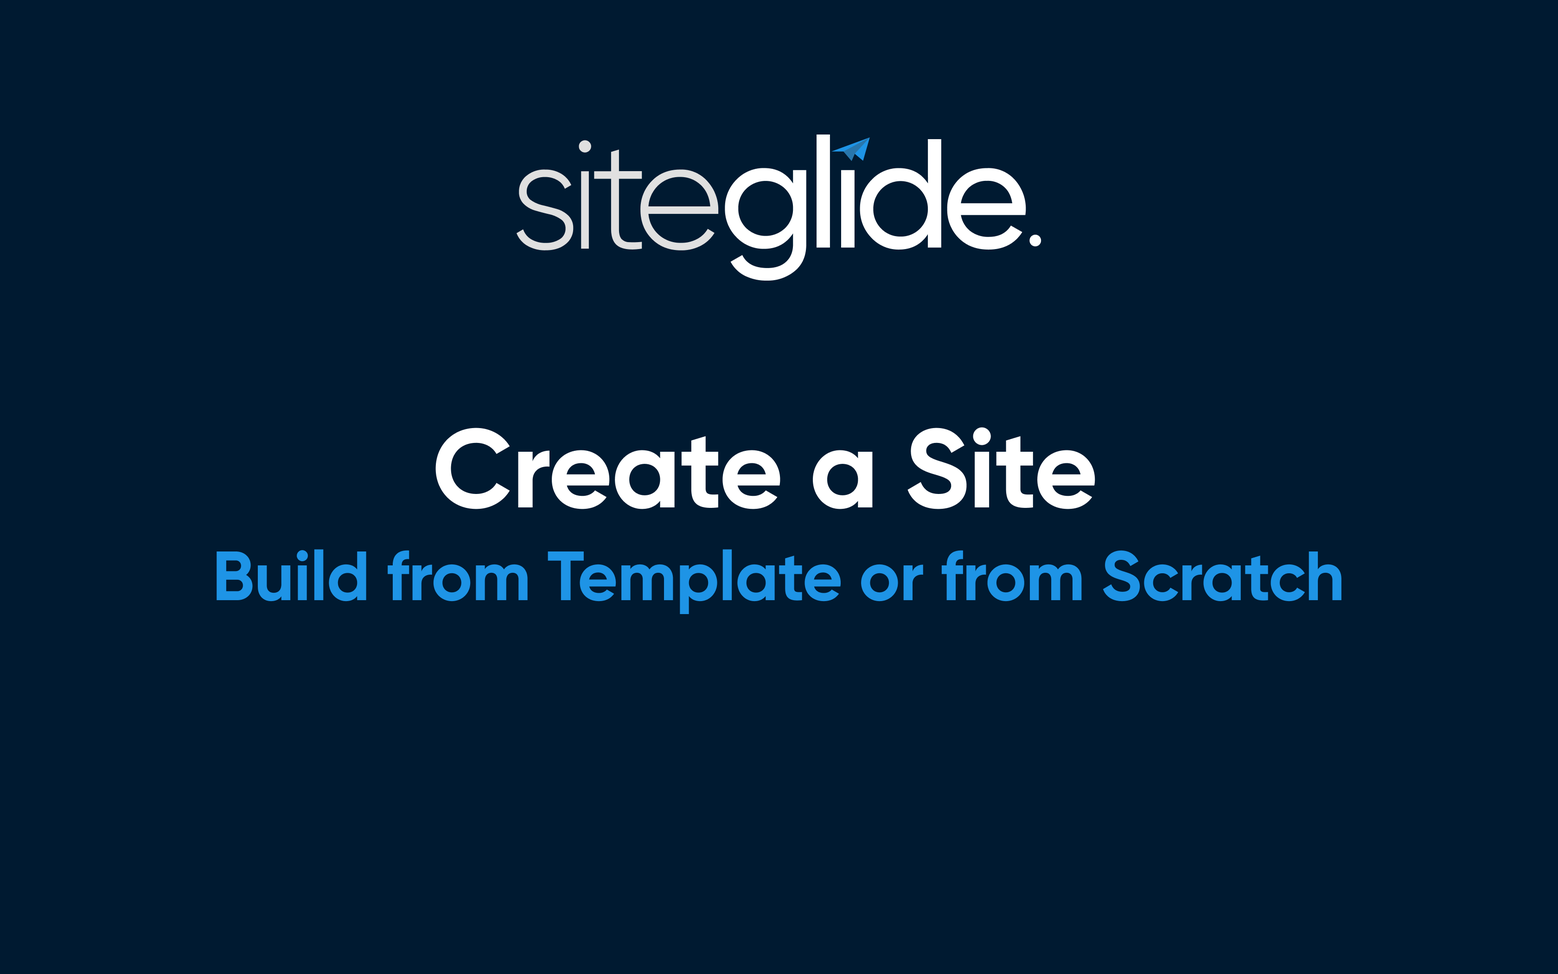
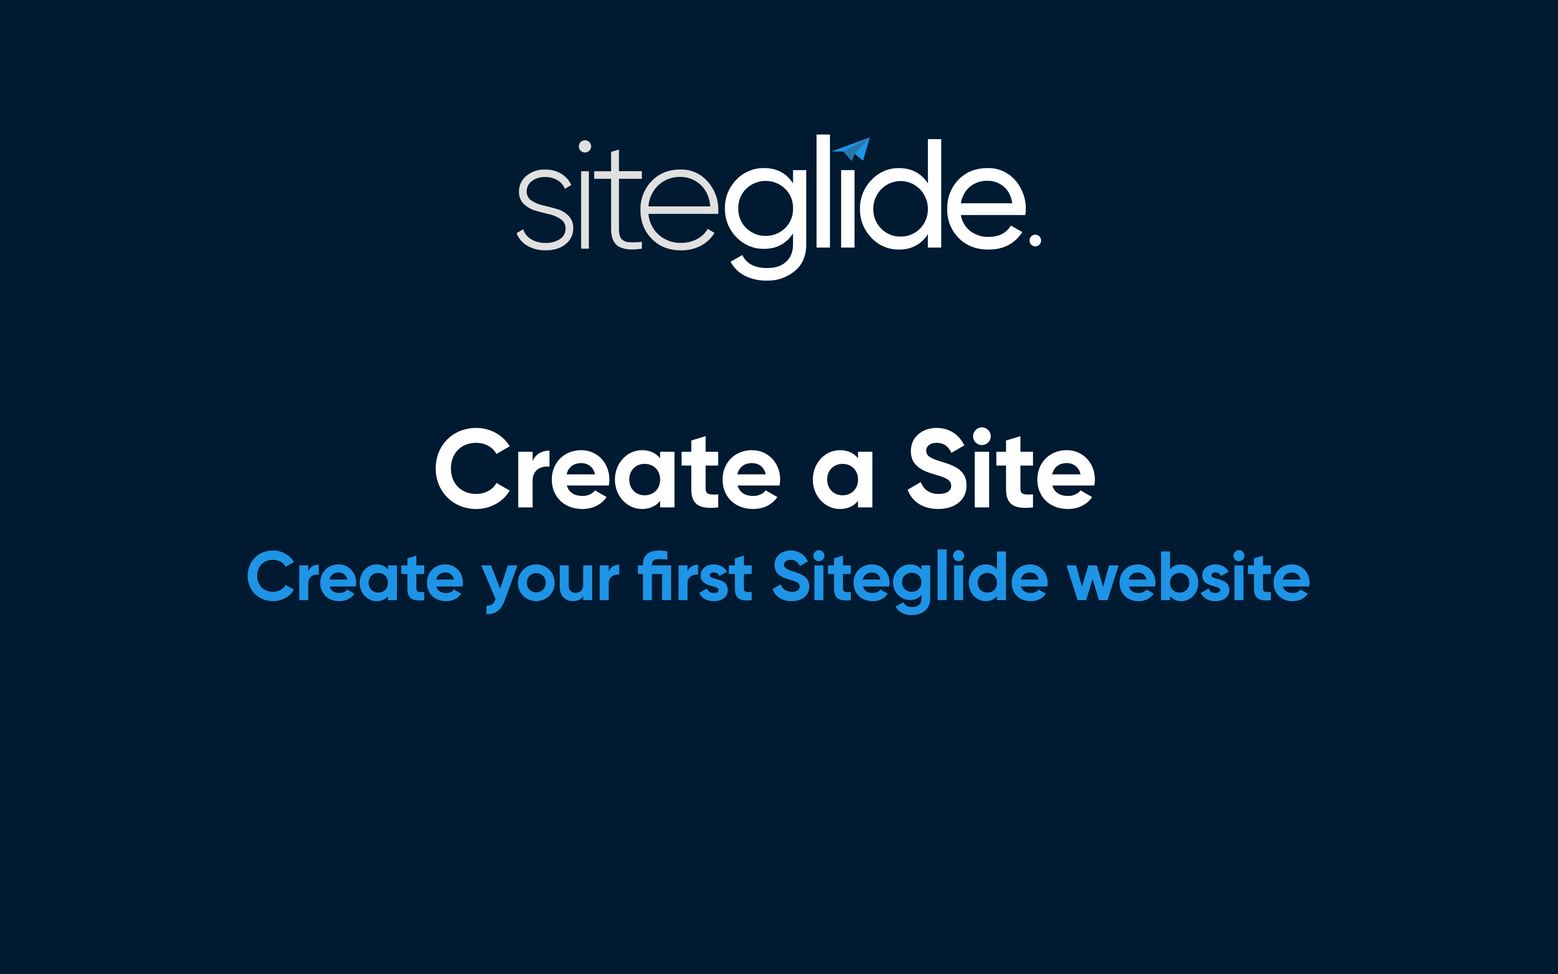
GITBOOK-213: No subject

Changed region(s): [[0.125, 0.5571, 0.875, 0.65]]

diff --git a/SUMMARY.md b/SUMMARY.md
@@ -14,8 +14,8 @@
 * [Account](portal2/account.md)
 * [Sites](portal/sites/README.md)
   * [🚀 Quickstart: Create a Site](portal/sites/steps-to-create-your-first-site.md)
-  * [📁 Domains](portal/sites/domains/README.md)
-    * [How to setup a multi domain start page](portal/sites/domains/how-to-setup-a-multi-domain-start-page.md)
+  * [🌍 Domains](portal/sites/domains/README.md)
+    * [📋 How to setup a multi domain start page](portal/sites/domains/how-to-setup-a-multi-domain-start-page.md)
 * [Users & User Roles](portal2/users-and-user-roles.md)
 * [Billing](portal2/billing.md)
 * [Tickets](portal2/tickets.md)
@@ -78,21 +78,22 @@
 
 ## SiteBuilder
 
-* [🚀 Quickstart: SiteBuilder](sitebuilder/setup-sitebuilder/README.md)
-  * [💡 About SiteBuilder](sitebuilder/setup-sitebuilder/about-sitebuilder.md)
+* [Build Sites Faster](sitebuilder/setup-sitebuilder/README.md)
+  * [🚀 Quickstart](sitebuilder/setup-sitebuilder/quickstart.md)
+  * [ℹ About](sitebuilder/setup-sitebuilder/about-sitebuilder.md)
   * [📋 Install SiteBuilder Module](sitebuilder/setup-sitebuilder/install-sitebuilder-module.md)
   * [📋 Create a Page Template](sitebuilder/setup-sitebuilder/create-a-page-template.md)
   * [📋 Set Up Tailwind CSS](sitebuilder/setup-sitebuilder/set-up-tailwind-css.md)
   * [📋 Editing Tailwind CSS](sitebuilder/setup-sitebuilder/editing-tailwind-css.md)
+  * [📋 Installing Layouts](sitebuilder/setup-sitebuilder/installing-layouts.md)
   * [ℹ Themes & Templates](sitebuilder/setup-sitebuilder/themes-and-templates.md)
+  * [ℹ Static Layouts](sitebuilder/setup-sitebuilder/static-layouts.md)
+  * [ℹ Dynamic Layouts in SiteBuilder](sitebuilder/setup-sitebuilder/dynamic-layouts-in-sitebuilder.md)
+  * [ℹ Static and Dynamic Form Layouts](sitebuilder/setup-sitebuilder/static-and-dynamic-form-layouts.md)
+  * [ℹ Sliders / Carousels](sitebuilder/setup-sitebuilder/sliders-carousels.md)
   * [ℹ Tailwind CSS Themes - Choosing a Build Method](sitebuilder/setup-sitebuilder/tailwind-css-themes-choosing-a-build-method.md)
   * [ℹ Tailwind's JIT Compiler Via CDN](sitebuilder/setup-sitebuilder/tailwinds-jit-compiler-via-cdn-beta-not-recommended-for-production.md)
-* [Using SiteBuilder](sitebuilder/using-sitebuilder/README.md)
-  * [ℹ Static Layouts](sitebuilder/using-sitebuilder/static-layouts.md)
-  * [📋 Installing Layouts](sitebuilder/using-sitebuilder/installing-layouts.md)
-  * [ℹ Dynamic Layouts in SiteBuilder](sitebuilder/using-sitebuilder/dynamic-layouts-in-sitebuilder.md)
-  * [ℹ Static and Dynamic Form Layouts](sitebuilder/using-sitebuilder/static-and-dynamic-form-layouts.md)
-  * [ℹ Sliders / Carousels](sitebuilder/using-sitebuilder/sliders-carousels.md)
+* [Advanced Features](sitebuilder/using-sitebuilder/README.md)
   * [🧞 SiteBuilder Live Updates API](sitebuilder/using-sitebuilder/live-updates-api/README.md)
     * [👀 Live Updates Reference](sitebuilder/using-sitebuilder/live-updates-api/live-updates-reference.md)
     * [🔹 Live Updates Markup Example](sitebuilder/using-sitebuilder/live-updates-api/live-updates-markup-example.md)
@@ -116,7 +117,7 @@
     * [ℹ Live Update Params Encode](sitebuilder/using-sitebuilder/sitebuilder-liquid-functions/live-update-params-encode.md)
     * [ℹ Case From Order ID](sitebuilder/using-sitebuilder/sitebuilder-liquid-functions/case-from-order-id.md)
   * [🗓 SiteBuilder Changelog](sitebuilder/using-sitebuilder/sitebuilder-changelog.md)
-* [Extending SiteBuilder](sitebuilder/extending-sitebuilder/README.md)
+* [Extend SiteBuilder](sitebuilder/extending-sitebuilder/README.md)
   * [💻 Reference](sitebuilder/extending-sitebuilder/reference.md)
   * [ℹ Creating SiteBuilder Themes](sitebuilder/extending-sitebuilder/creating-sitebuilder-themes.md)
   * [ℹ Support for Marketplace Modules](sitebuilder/extending-sitebuilder/support-for-marketplace-modules.md)
@@ -126,16 +127,16 @@
 ## CMS
 
 * [Pages](cms/pages/README.md)
-  * [💡 About Pages](pages-and-page-templates/get-started-pages/about-pages.md)
-  * [🔹 Page Settings](pages-and-page-templates/get-started-pages/page-settings.md)
-  * [🧑🎨 Updating Page Content with the Studio Tab](pages-and-page-templates/get-started-pages/updating-page-content-with-the-studio-tab.md)
-  * [🔧 Rolling Back Page Changes](pages-and-page-templates/get-started-pages/rolling-back-page-changes.md)
-  * [💡 About Page Templates](pages-and-page-templates/get-started-pages/page-templates.md)
-  * [🔹 System Pages](pages-and-page-templates/get-started-pages/system-pages.md)
-  * [💻 Pages with Siteglide CLI](cms/pages/pages-with-siteglide-cli.md)
-  * [🔧 Tags for Pages and Templates](cms/pages/accessing-page-data.md)
+  * [ℹ About Pages](pages-and-page-templates/get-started-pages/about-pages.md)
+  * [ℹ Page Settings](pages-and-page-templates/get-started-pages/page-settings.md)
+  * [ℹ Updating Page Content with the Studio Tab](pages-and-page-templates/get-started-pages/updating-page-content-with-the-studio-tab.md)
+  * [ℹ Rolling Back Page Changes](pages-and-page-templates/get-started-pages/rolling-back-page-changes.md)
+  * [ℹ About Page Templates](pages-and-page-templates/get-started-pages/page-templates.md)
+  * [ℹ System Pages](pages-and-page-templates/get-started-pages/system-pages.md)
+  * [ℹ Pages with Siteglide CLI](cms/pages/pages-with-siteglide-cli.md)
+  * [ℹ Page Templates with Siteglide CLI](cms/pages/page-templates-with-cli.md)
+  * [💻 Reference](cms/pages/accessing-page-data.md)
   * [🌳 Pages and Page Templates File Structure](cms/pages/pages-and-page-templates-file-structure.md)
-  * [💻 Page Templates with Siteglide CLI](cms/pages/page-templates-with-cli.md)
 * [Content Sections](cms/content-sections.md)
 * [File Manager](cms/file-manager/README.md)
   * [🔹 Linking to Assets Explained](assets/introduction/linking-to-assets-front-end.md)
@@ -147,7 +148,7 @@
   * [🌳 Assets File Structure](cms/file-manager/file-structure.md)
   * [👀 Tags for Assets](cms/file-manager/assets-reference.md)
 * [Forms](cms/forms/README.md)
-  * [💡 About Forms](cms/forms/about-forms.md)
+  * [ℹ About Forms](cms/forms/about-forms.md)
   * [📋 Guides: Forms](cms/forms/guides-forms/README.md)
     * [📋 Steps to Using Separate Fields for First Name and Surname in a Form](cms/forms/guides-forms/how-to-have-separate-field-for-first-name-and-surname-in-a-form.md)
     * [📋 Steps to Programmatically Redirecting after a Form Submission](cms/forms/guides-forms/how-to-add-a-custom-redirect-to-my-form.md)
@@ -155,15 +156,15 @@
     * [📋 Steps to Adding a Progress Bar](cms/forms/guides-forms/adding-a-progress-bar.md)
     * [📋 Steps to Changing Form Styling on Submission Using CSS](cms/forms/guides-forms/adding-custom-css-to-show-form-submit-process.md)
     * [📋 Steps to Using Custom Field Set fields in a Form's Custom Layout](cms/forms/guides-forms/how-to-output-custom-field-set-fields-in-a-forms-custom-layout.md)
-  * [🔼 Migrating Forms](cms/forms/migrating-forms.md)
-  * [🔹 Explained - Preventing Spam Form Submissions and Captchas](cms/forms/explained-preventing-spam-form-submissions-and-captchas.md)
-  * [🔹 Explained - Show Clearly When a User is Already Logged in When Submitting a Form](cms/forms/shared-devices.md)
-  * [🔹 Forms Error Callback and Validation](cms/forms/custom-javascript-validation-for-forms.md)
-  * [🔹 Forms Success Callback](cms/forms/forms-success-callback.md)
-  * [🔹 File Upload Previews](cms/forms/file-upload-previews.md)
+  * [ℹ Migrating Forms](cms/forms/migrating-forms.md)
+  * [ℹ Explained - Preventing Spam Form Submissions and Captchas](cms/forms/explained-preventing-spam-form-submissions-and-captchas.md)
+  * [ℹ Explained - Show Clearly When a User is Already Logged in When Submitting a Form](cms/forms/shared-devices.md)
+  * [ℹ Forms Error Callback and Validation](cms/forms/custom-javascript-validation-for-forms.md)
+  * [ℹ Forms Success Callback](cms/forms/forms-success-callback.md)
+  * [ℹ File Upload Previews](cms/forms/file-upload-previews.md)
   * [🌳 Forms File Structure](cms/forms/forms-file-structure.md)
-  * [👀 Forms Reference](cms/forms/forms-reference.md)
-  * [🔧 Troubleshooting Captchas](cms/forms/troubleshooting-captchas.md)
+  * [💻 Reference](cms/forms/forms-reference.md)
+  * [❔ Troubleshooting](cms/forms/troubleshooting-captchas.md)
 * [Automations](cms/automations/README.md)
   * [🔹 Email Templates](cms/automations/email-templates.md)
   * [🔹 A Transactional Email Example](cms/automations/a-transactional-email-example.md)

diff --git a/README.md b/README.md
@@ -4,11 +4,11 @@ Welcome to Siteglide's Documentation!&#x20;
 
 Siteglide allows agencies to take control over code and data via API, CLI or UI. With the right blend of out-of-the-box tools and freedom to develop - without limits.
 
-<table data-view="cards"><thead><tr><th></th><th></th><th data-hidden data-card-target data-type="content-ref"></th><th data-hidden data-card-cover data-type="files"></th></tr></thead><tbody><tr><td><mark style="color:blue;"><strong>Need Some Help?</strong></mark></td><td>Step-by-step guides</td><td><a href="get-started/tutorials.md">tutorials.md</a></td><td><a href=".gitbook/assets/Tutorials.png">Tutorials.png</a></td></tr><tr><td><mark style="color:blue;"><strong>Ready to Create Sites?</strong></mark></td><td>At a glance tags and info</td><td><a href="portal/sites/steps-to-create-your-first-site.md">steps-to-create-your-first-site.md</a></td><td><a href=".gitbook/assets/Create-a-Site (2).png">Create-a-Site (2).png</a></td></tr><tr><td><mark style="color:blue;"><strong>Dive into the Code?</strong></mark></td><td>Follow our Quickstart Guide</td><td><a href="developer-tools/cli/quickstart.md">quickstart.md</a></td><td><a href=".gitbook/assets/Setup-CLI.png">Setup-CLI.png</a></td></tr></tbody></table>
+<table data-view="cards"><thead><tr><th></th><th></th><th data-hidden data-card-target data-type="content-ref"></th><th data-hidden data-card-cover data-type="files"></th></tr></thead><tbody><tr><td><mark style="color:blue;"><strong>Need Some Help?</strong></mark></td><td>Step-by-step guides</td><td><a href="get-started/tutorials.md">tutorials.md</a></td><td><a href=".gitbook/assets/Quickstart.png">Quickstart.png</a></td></tr><tr><td><mark style="color:blue;"><strong>Ready to Create Sites?</strong></mark></td><td>At a glance tags and info</td><td><a href="portal/sites/steps-to-create-your-first-site.md">steps-to-create-your-first-site.md</a></td><td><a href=".gitbook/assets/Create-a-Site.png">Create-a-Site.png</a></td></tr><tr><td><mark style="color:blue;"><strong>Dive into the Code?</strong></mark></td><td>Follow our Quickstart Guide</td><td><a href="developer-tools/cli/quickstart.md">quickstart.md</a></td><td><a href=".gitbook/assets/Setup-CLI.png">Setup-CLI.png</a></td></tr></tbody></table>
 
 ### Types of Articles
 
-1. :rocket: **Quickstart:** The bare essentials with links to more detailed articles if you get stuck.
+1. :rocket: **Quickstart:** Bare essential guides with links to more detailed articles if you get stuck.
 2. :information\_source: **About / Introduction:** A brief overview of the topic.
 3. :clipboard: **Step by Step Articles:** How to Implement a Feature or Solve a Problem
 4. :bulb: **Concept:** Will take a feature and explain it in a little more depth

diff --git a/cms/forms/troubleshooting-captchas.md b/cms/forms/troubleshooting-captchas.md
@@ -1,6 +1,6 @@
-# 🔧 Troubleshooting Captchas
+# ❔ Troubleshooting
 
-If you are building or working on a site and your reCaptcha is now continually failing you can follow the three steps below to get it working again.&#x20;
+If you are building or working on a site and your reCaptcha is now continually failing you can follow the three steps below to get it working again.
 
 Please note that there might be a slight variation depending on which browser you use, however the process remains the same.
 
@@ -22,12 +22,12 @@ Now that you have the network tab open, submit the form to generate activity.
 
 Inside the Network Tab, look for a network request to the file 'recaptcha.json'.
 
-Click the recaptcha.json request file to open up a pane to the right with a 'Response' tab.&#x20;
+Click the recaptcha.json request file to open up a pane to the right with a 'Response' tab.
 
-The response area you have just opened, shows the response received from Google for you reCaptcha request. Be sure that `success: true`  and that the value for `score` is equal to or above the value that you have set in your form configuration (see below).&#x20;
+The response area you have just opened, shows the response received from Google for you reCaptcha request. Be sure that `success: true` and that the value for `score` is equal to or above the value that you have set in your form configuration (see below).
 
 ![](https://d258lu9myqkejp.cloudfront.net/attachment\_images/3c8ef704b086170a6cfc854653011f2d5d462168217213de697da4c98cf8db5ccf1df3cc-b062-47e8-921e-7369bb\_1pfh52t.png)
 
-&#x20;If both one of those are not true, then although you may get a message that says "recaptcha failed", what it actually means is that your submission did not meet your request levels.  This is not an error with the form, but recaptcha doing its job correctly and blocking what seemed like a suspicious attempt.
+If both one of those are not true, then although you may get a message that says "recaptcha failed", what it actually means is that your submission did not meet your request levels. This is not an error with the form, but recaptcha doing its job correctly and blocking what seemed like a suspicious attempt.
 
-You may see this happen if you are testing the form with the same email address in quick succession.  If this does happen you may want to lower your minimum score so that the requests are allowed, then you can raise it again later before going live.
+You may see this happen if you are testing the form with the same email address in quick succession. If this does happen you may want to lower your minimum score so that the requests are allowed, then you can raise it again later before going live.

diff --git a/sitebuilder/setup-sitebuilder/README.md b/sitebuilder/setup-sitebuilder/README.md
@@ -2,38 +2,19 @@
 description: SiteBuilder is the quickest way to get started with Siteglide
 ---
 
-# 🚀 Quickstart: SiteBuilder
+# Build Sites Faster
 
-## What is SiteBuilder?
+## New to Siteglide and/or SiteBuilder?
 
-SiteBuilder is a tool to help you build better websites, faster.&#x20;
+SiteBuilder is definitely the best way to get started but it's so much more than that...it can help you streamline ANY project without limiting what you can create.
 
-### Core Concepts
+Check out our Quickstart guide:
 
-SiteBuilder offers 2 main things:
-
-1. **Layouts:** Build out sites with ready-made, best-practice sections in just a few clicks
-2. **Builder:** SiteBuilder will do the heavy lifting in Siteglide for you from a simple, intuitive UI
-
-Sitebuilder does **NOT** limit what you can build, it's simply a starting point for rapid development that can then be completely customised.
-
-#### More information:
-
-{% content-ref url="about-sitebuilder.md" %}
-[about-sitebuilder.md](about-sitebuilder.md)
+{% content-ref url="quickstart.md" %}
+[quickstart.md](quickstart.md)
 {% endcontent-ref %}
 
-## Where do I find SiteBuilder?
+## Looking to Extend SiteBuilder?
 
-{% hint style="info" %}
-Skip if you already have a Site with SiteBuilder installed
-{% endhint %}
 
-You can start from Templates (recommended) or start from scratch by installing the Module to an existing Site:
-
-<table data-card-size="large" data-column-title-hidden data-view="cards"><thead><tr><th></th><th></th><th data-hidden></th><th data-hidden data-card-target data-type="content-ref"></th><th data-hidden data-card-cover data-type="files"></th></tr></thead><tbody><tr><td><mark style="color:blue;">(Recommended)</mark></td><td><strong>Option 1:</strong> Create Site from Flowbite Template</td><td></td><td><a href="../../portal/sites/steps-to-create-your-first-site.md">steps-to-create-your-first-site.md</a></td><td><a href="../../.gitbook/assets/Siteglide-Marketplace-Template-Landing-Page-Modal.jpg">Siteglide-Marketplace-Template-Landing-Page-Modal.jpg</a></td></tr><tr><td>          </td><td><strong>Option 2:</strong> Install Module on Existing Site</td><td></td><td><a href="install-sitebuilder-module.md">install-sitebuilder-module.md</a></td><td><a href="../../.gitbook/assets/Siteglide-Site-Modules-SiteBuilder.jpg">Siteglide-Site-Modules-SiteBuilder.jpg</a></td></tr></tbody></table>
-
-## Editing Sites
-
-Here are the most important articles that will help you build out content and edit it:
 

diff --git a/sitebuilder/setup-sitebuilder/about-sitebuilder.md b/sitebuilder/setup-sitebuilder/about-sitebuilder.md
@@ -1,10 +1,25 @@
-# 💡 About SiteBuilder
+---
+description: >-
+  About SiteBuilder and how it can help you rapidly build websites and
+  applications
+---
 
-## SiteBuilder's Mission <a href="#sitebuilders-mission" id="sitebuilders-mission"></a>
+# ℹ About
 
-The mission of the SiteBuilder Module is to give you easy access to the best examples of Siteglide-ready code from the Sitegurus team!
+## What is SiteBuilder?
 
-These examples include everything from small component layouts to entire sites and we'll be constantly expanding our offering.
+SiteBuilder is a tool to help you build better websites, faster.&#x20;
+
+An end-to-end web design and development ecosystem to rapidly launch websites, portals, applications and much more.
+
+## Core Concepts
+
+SiteBuilder offers 2 main things:
+
+1. **Layouts:** Build out sites with ready-made, best-practice sections in just a few clicks
+2. **Builder:** SiteBuilder will do the heavy lifting in Siteglide for you from a simple, intuitive UI
+
+Sitebuilder does **NOT** limit what you can build, it's simply a starting point for rapid development that can then be completely customised.
 
 ## Where Should I Start? <a href="#where-should-i-start" id="where-should-i-start"></a>
 
@@ -16,7 +31,7 @@ Some code repositories require you to copy and paste code from the example into 
 
 SiteBuilder does the hard work for you and is plug & play!
 
-When you choose one of our examples, all you have to do is give it a name and we'll create the required file structure automatically. The layout will be ready to use in your Siteglide site and, where supported, available in Toolbox!&#x20;
+When you choose one of our examples, all you have to do is give it a name and we'll create the required file structure automatically. The layout will be ready to use in your Siteglide site and, where supported, available in Toolbox!
 
 ### Learn More <a href="#learn-more" id="learn-more"></a>
 

diff --git a/sitebuilder/setup-sitebuilder/quickstart.md b/sitebuilder/setup-sitebuilder/quickstart.md
@@ -1,0 +1,30 @@
+---
+description: Get started with SiteBuilder in a few simple steps
+---
+
+# 🚀 Quickstart
+
+## Step 1: Choose your path
+
+{% hint style="info" %}
+Skip if you already have a Site with SiteBuilder installed
+{% endhint %}
+
+You can start from Templates (recommended) or start from scratch by installing the Module to an existing Site:
+
+<table data-card-size="large" data-column-title-hidden data-view="cards"><thead><tr><th></th><th></th><th data-hidden></th><th data-hidden data-card-target data-type="content-ref"></th><th data-hidden data-card-cover data-type="files"></th></tr></thead><tbody><tr><td><mark style="color:blue;">(Recommended)</mark></td><td><strong>Option 1:</strong> Create Site from Flowbite Template</td><td></td><td><a href="../../portal/sites/steps-to-create-your-first-site.md">steps-to-create-your-first-site.md</a></td><td><a href="../../.gitbook/assets/Siteglide-Marketplace-Template-Landing-Page-Modal.jpg">Siteglide-Marketplace-Template-Landing-Page-Modal.jpg</a></td></tr><tr><td>          </td><td><strong>Option 2:</strong> Install Module on Existing Site</td><td></td><td><a href="install-sitebuilder-module.md">install-sitebuilder-module.md</a></td><td><a href="../../.gitbook/assets/Siteglide-Site-Modules-SiteBuilder.jpg">Siteglide-Site-Modules-SiteBuilder.jpg</a></td></tr></tbody></table>
+
+## Step 2: Setup CLI for Tailwind (optional)
+
+{% hint style="info" %}
+CLI is primarily for developers, skip this if you don't need to customise the code/styling
+{% endhint %}
+
+{% content-ref url="set-up-tailwind-css.md" %}
+[set-up-tailwind-css.md](set-up-tailwind-css.md)
+{% endcontent-ref %}
+
+## Step 3: Editing Sites
+
+Here are the most important articles that will help you build out content and edit it:
+

diff --git a/sitebuilder/setup-sitebuilder/create-a-page-template.md b/sitebuilder/setup-sitebuilder/create-a-page-template.md
@@ -1,12 +1,12 @@
-# 📋 Create a Page Template
+---
+description: Page Templates help you standardise how multiple pages look/work
+---
 
-{% hint style="info" %}
-You can skip this if your site already has a Page Template (it will do if you used a Template) and you don't need another
-{% endhint %}
+# 📋 Create a Page Template
 
 A Page Template is an essential component, any of our Marketplace Templates will come with at least one already but you can create them here:
 
-<figure><img src="https://p186.p2.n0.cdn.zight.com/items/5zuKxvrB/2d88d7d6-5183-48f4-8cc1-18578da8c94d.jpg?source=viewer&#x26;v=%22f4f2c84cd775280d4a64e3d18ba1b7c7%22" alt=""><figcaption></figcaption></figure>
+<figure><img src="https://p186.p2.n0.cdn.zight.com/items/5zuKxvrB/2d88d7d6-5183-48f4-8cc1-18578da8c94d.jpg?source=viewer&#x26;v=%22f4f2c84cd775280d4a64e3d18ba1b7c7%22" alt=""><figcaption><p>One template already exists (Main) but you can create more if needed</p></figcaption></figure>
 
 SiteBuilder simply leverages the Page Templates functionality in Siteglide but builds it for you with useful options to save you time.
 

diff --git a/sitebuilder/setup-sitebuilder/editing-tailwind-css.md b/sitebuilder/setup-sitebuilder/editing-tailwind-css.md
@@ -2,19 +2,13 @@
 
 ## Before you Start
 
-You will need to have already created a site with both Sitebuilder installed and a Flowbite/Tailwind Page template setup:
-
-{% content-ref url="broken-reference" %}
-[Broken link](broken-reference)
-{% endcontent-ref %}
+{% hint style="info" %}
+This article assumes you have completed the setup steps:
+{% endhint %}
 
 {% content-ref url="set-up-tailwind-css.md" %}
 [set-up-tailwind-css.md](set-up-tailwind-css.md)
 {% endcontent-ref %}
-
-{% hint style="info" %}
-It is possible to follow the [https://tailwindcss.com/docs/installation](https://tailwindcss.com/docs/installation) docs to set up the Tailwind CLI your own way. However, this article above sets up the folder structure in a way which is compatible with a Siteglide Site's folder structure and this article assumes your folder structure is set up the same way.
-{% endhint %}
 
 ## Introduction
 

diff --git a/ecommerce/payment-gateways/switching-gateway.md b/ecommerce/payment-gateways/switching-gateway.md
@@ -14,7 +14,7 @@ Create a Form in the Siteglide Admin and turn on the setting to use it as a paym
 ## Step 2 - Create a Custom Form Layout
 
 {% hint style="info" %}
-:genie:You can use [SiteBuilder](../../sitebuilder/using-sitebuilder/static-and-dynamic-form-layouts.md) to quickly create a custom Form Layout
+:genie:You can use [SiteBuilder](../../sitebuilder/setup-sitebuilder/static-and-dynamic-form-layouts.md) to quickly create a custom Form Layout
 {% endhint %}
 
 In Code Editor or CLI, make a copy of the default form layout, ready to customise it.

diff --git a/cms/forms/shared-devices.md b/cms/forms/shared-devices.md
@@ -1,4 +1,4 @@
-# 🔹 Explained - Show Clearly When a User is Already Logged in When Submitting a Form
+# ℹ Explained - Show Clearly When a User is Already Logged in When Submitting a Form
 
 This problem was initially reported here -> [https://roadmap.siteglide.com/bugs/p/forms-overwriting-crm-records](https://roadmap.siteglide.com/core-platform/p/forms-overwriting-crm-records)
 

diff --git a/pages-and-page-templates/get-started-pages/system-pages.md b/pages-and-page-templates/get-started-pages/system-pages.md
@@ -1,10 +1,4 @@
----
-cover: >-
-  ../../.gitbook/assets/e44c56b049cb76e07172045bed371fd88fff21deb3db52d5fa3f1402f0e0d040image-34_om3kh0.png
-coverY: 0
----
-
-# 🔹 System Pages
+# ℹ System Pages
 
 System Pages work similar to other pages- but they are stored under Site Manager as they are most likely to be looked at by a Developer.
 

diff --git a/cms/pages/page-templates-with-cli.md b/cms/pages/page-templates-with-cli.md
@@ -5,7 +5,7 @@ createdAt: 2021-02-18T11:01:15.000Z
 updatedAt: 2023-03-03T08:09:58.000Z
 ---
 
-# 💻 Page Templates with Siteglide CLI
+# ℹ Page Templates with Siteglide CLI
 
 Templates must be stored within the following file path of your project: `marketplace_builder/views/layouts/templates/` and must be `.liquid` file type.
 
